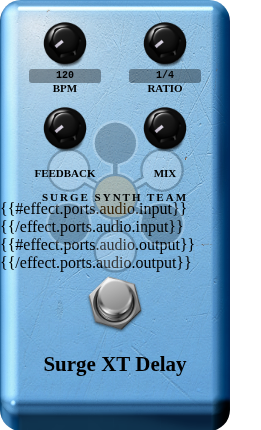
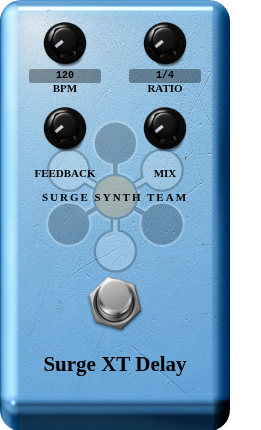
Document MIDI CC/OSC limitation; fix screenshots; add Chorus to all modgui tooling
- All 6 patch-dsp.py: replace understated controls-table note with prominent
  MIDI CC/OSC caveat at the top of every plugin info page; reflow to single
  paragraph (no mid-sentence line breaks). Chorus gains homepage redirect and
  Maintainer credit to match the other five effects.
- README: add section documenting the MIDI CC/OSC unavailability as a
  showstopper for all JUCE-built LV2 plugins; references mod-audio/mod-ui#161
- gen_screenshots.py: strip Mustache block sections before rendering (fixes
  literal-text artifact in all screenshots); add Chorus with space-named deploy
  path; support per-effect deploy_dir override
- Regenerate all 6 screenshots and thumbnails (clean, no artifact; Chorus added)
- descriptions.md, TODO.md: added to repo

Changed region(s): [[0.0, 0.4535, 0.7356, 0.6349]]

diff --git a/tools/gen_screenshots.py b/tools/gen_screenshots.py
@@ -8,6 +8,7 @@ deployed MODEP bundle.
 
 import base64
 import os
+import re
 import shutil
 import subprocess
 import sys
@@ -28,6 +29,8 @@ EFFECTS = [
     {'name': 'reverb1', 'label': 'Surge XT Reverb 1',       'color': 'blue'},
     {'name': 'delay',   'label': 'Surge XT Delay',          'color': 'blue'},
     {'name': 'rotary',  'label': 'Surge XT Rotary Speaker', 'color': 'blue'},
+    {'name': 'chorus',  'label': 'Surge XT Chorus',         'color': 'blue',
+     'deploy_dir': DEPLOY_ROOT / 'Surge XT Chorus.lv2' / 'modgui'},
 ]
 
 
@@ -35,6 +38,11 @@ def b64url(path: Path) -> str:
     mime = 'image/svg+xml' if path.suffix == '.svg' else 'image/png'
     data = base64.b64encode(path.read_bytes()).decode()
     return f'data:{mime};base64,{data}'
+
+
+def strip_mustache_blocks(text: str) -> str:
+    """Remove {{#section}}...{{/section}} blocks — they have no data to render."""
+    return re.sub(r'\{\{#[^}]+\}\}.*?\{\{/[^}]+\}\}', '', text, flags=re.DOTALL)
 
 
 def substitute_mustache(text: str, cns='', ns='', color='blue', label='', knob='lata') -> str:
@@ -67,6 +75,7 @@ def build_html(name: str, label: str, color: str) -> str:
     icon_html = (modgui_dir / 'icon.html').read_text()
     css       = (modgui_dir / 'stylesheet.css').read_text()
 
+    icon_html = strip_mustache_blocks(icon_html)
     icon_html = substitute_mustache(icon_html, color=color, label=label)
     css       = substitute_mustache(css)
 
@@ -89,7 +98,7 @@ html, body {{ margin: 0; padding: 0; width: {SCREENSHOT_W}px; height: {SCREENSHO
 </html>'''
 
 
-def generate(name: str, label: str, color: str):
+def generate(name: str, label: str, color: str, deploy_dir: Path = None):
     print(f'Generating {name}...', flush=True)
 
     html     = build_html(name, label, color)
@@ -127,8 +136,9 @@ def generate(name: str, label: str, color: str):
         thumb.save(thumbnail_tmp)
 
     # Copy to source modgui (writable) and deployed bundle (needs sudo)
-    src_dir    = MODGUI_ROOT / f'surge-xt-{name}' / 'modgui'
-    deploy_dir = DEPLOY_ROOT / f'surge-xt-{name}.lv2' / 'modgui'
+    src_dir = MODGUI_ROOT / f'surge-xt-{name}' / 'modgui'
+    if deploy_dir is None:
+        deploy_dir = DEPLOY_ROOT / f'surge-xt-{name}.lv2' / 'modgui'
 
     shutil.copy(screenshot_tmp, src_dir / 'screenshot.png')
     shutil.copy(thumbnail_tmp,  src_dir / 'thumbnail.png')

diff --git a/modgui/surge-xt-chorus/patch-dsp.py b/modgui/surge-xt-chorus/patch-dsp.py
@@ -27,24 +27,39 @@ text = text.replace(
     '\ta lv2:Plugin , lv2:ChorusPlugin ;\n',
 )
 
-# 2. Description — MODEP reads rdfs:comment, not doap:description.
+# 2. Homepage → this repo (for issue tracking); author name stays "Surge Synth Team"
+text = text.replace(
+    'foaf:homepage <https://surge-synth-team.org/>',
+    'foaf:homepage <https://github.com/bwanab/surge-single-effect-lv2>',
+)
+
+# 3. Description — MODEP reads rdfs:comment, not doap:description.
 #    Insert rdfs:comment before the existing doap:description line.
+NOTE = (
+    '⚠ KNOWN LIMITATION: MIDI CC and OSC parameter binding is not available for this plugin in MODEP. '
+    'This affects all JUCE-built LV2 plugins due to a bug in MODEP\'s handling of patch:writable parameters. '
+    'Parameters are fully adjustable via the plugin GUI and Settings panel, but cannot be mapped to MIDI controllers or expression pedals. '
+    'The Settings panel parameter list will also appear empty for the same reason. '
+    'Upstream issue: https://github.com/mod-audio/mod-ui/issues/161'
+)
 COMMENT = (
+    NOTE + '\n\n'
     'A beautiful sounding chorus pedal much like that ubiquitous blue pedal.\n\n'
-    'Credit: The Surge XT Team'
+    'Features: Modelled by Surge Synth Team (https://surge-synthesizer.github.io/)\n'
+    'Maintainer: Bill Allen\n'
 )
 text = text.replace(
     'doap:description "Surge XT Chorus"',
     f'rdfs:comment """{COMMENT}""" ;\n\tdoap:description "Surge XT Chorus"',
 )
 
-# 3. Rate maximum: 512 Hz -> 1 Hz (fx_parm_0 is the only param with max 512)
+# 4. Rate maximum: 512 Hz -> 1 Hz (fx_parm_0 is the only param with max 512)
 text = text.replace(
     '\tlv2:maximum 512 ;\n',
     '\tlv2:maximum 1 ;\n',
 )
 
-# 4a. Remove _unused_N parameter definition blocks
+# 5a. Remove _unused_N parameter definition blocks
 text = re.sub(
     r'plug:fx_parm_\d+\n\ta lv2:Parameter ;\n\trdfs:label "_unused_\d+" ;'
     r'.*?\tlv2:maximum 1 \.\n\n',
@@ -53,7 +68,7 @@ text = re.sub(
     flags=re.DOTALL,
 )
 
-# 4b. Remove fx_parm_8–11 from patch:writable and patch:readable lists.
+# 5b. Remove fx_parm_8–11 from patch:writable and patch:readable lists.
 #     Both lists end with fx_parm_11 ; — change the last kept entry (fx_parm_7)
 #     from "," to ";" and drop the four trailing entries.
 text = re.sub(

diff --git a/modgui/surge-xt-delay/patch-dsp.py b/modgui/surge-xt-delay/patch-dsp.py
@@ -6,17 +6,19 @@ path = sys.argv[1]
 text = open(path).read()
 
 NOTE = (
-    'Note: This plugin uses LV2 patch:writable parameters (an atom-based protocol). '
-    "MODEP's controls table only shows traditional lv2:ControlPort parameters, "
-    'so it will appear empty — all parameters are accessible through the GUI and Settings panel.'
+    '⚠ KNOWN LIMITATION: MIDI CC and OSC parameter binding is not available for this plugin in MODEP. '
+    'This affects all JUCE-built LV2 plugins due to a bug in MODEP\'s handling of patch:writable parameters. '
+    'Parameters are fully adjustable via the plugin GUI and Settings panel, but cannot be mapped to MIDI controllers or expression pedals. '
+    'The Settings panel parameter list will also appear empty for the same reason. '
+    'Upstream issue: https://github.com/mod-audio/mod-ui/issues/161'
 )
 COMMENT = (
+    NOTE + '\n\n'
     'A nice sounding delay. The GUI exposes BPM and ratio settings from which the delay '
     'duration is computed. These values can be overridden in the Settings panel along with '
     'other parameters.\n\n'
     'Features: Modelled by Surge Synth Team (https://surge-synthesizer.github.io/)\n'
-    'Maintainer: Bill Allen\n\n'
-    + NOTE
+    'Maintainer: Bill Allen\n'
 )
 
 # 1. Category

diff --git a/modgui/surge-xt-rotary/patch-dsp.py b/modgui/surge-xt-rotary/patch-dsp.py
@@ -6,15 +6,17 @@ path = sys.argv[1]
 text = open(path).read()
 
 NOTE = (
-    'Note: This plugin uses LV2 patch:writable parameters (an atom-based protocol). '
-    "MODEP's controls table only shows traditional lv2:ControlPort parameters, "
-    'so it will appear empty — all parameters are accessible through the GUI and Settings panel.'
+    '⚠ KNOWN LIMITATION: MIDI CC and OSC parameter binding is not available for this plugin in MODEP. '
+    'This affects all JUCE-built LV2 plugins due to a bug in MODEP\'s handling of patch:writable parameters. '
+    'Parameters are fully adjustable via the plugin GUI and Settings panel, but cannot be mapped to MIDI controllers or expression pedals. '
+    'The Settings panel parameter list will also appear empty for the same reason. '
+    'Upstream issue: https://github.com/mod-audio/mod-ui/issues/161'
 )
 COMMENT = (
+    NOTE + '\n\n'
     'A software implementation of the famed cabinets normally used by organs.\n\n'
     'Features: Modelled by Surge Synth Team (https://surge-synthesizer.github.io/)\n'
-    'Maintainer: Bill Allen\n\n'
-    + NOTE
+    'Maintainer: Bill Allen\n'
 )
 
 def set_param(text, name, default=None, minimum=None, maximum=None):

diff --git a/modgui/surge-xt-flanger/patch-dsp.py b/modgui/surge-xt-flanger/patch-dsp.py
@@ -6,15 +6,17 @@ path = sys.argv[1]
 text = open(path).read()
 
 NOTE = (
-    'Note: This plugin uses LV2 patch:writable parameters (an atom-based protocol). '
-    "MODEP's controls table only shows traditional lv2:ControlPort parameters, "
-    'so it will appear empty — all parameters are accessible through the GUI and Settings panel.'
+    '⚠ KNOWN LIMITATION: MIDI CC and OSC parameter binding is not available for this plugin in MODEP. '
+    'This affects all JUCE-built LV2 plugins due to a bug in MODEP\'s handling of patch:writable parameters. '
+    'Parameters are fully adjustable via the plugin GUI and Settings panel, but cannot be mapped to MIDI controllers or expression pedals. '
+    'The Settings panel parameter list will also appear empty for the same reason. '
+    'Upstream issue: https://github.com/mod-audio/mod-ui/issues/161'
 )
 COMMENT = (
+    NOTE + '\n\n'
     'A solid flanger effect.\n\n'
     'Features: Modelled by Surge Synth Team (https://surge-synthesizer.github.io/)\n'
-    'Maintainer: Bill Allen\n\n'
-    + NOTE
+    'Maintainer: Bill Allen\n'
 )
 
 def set_param(text, name, default=None, minimum=None, maximum=None):

diff --git a/modgui/surge-xt-reverb1/patch-dsp.py b/modgui/surge-xt-reverb1/patch-dsp.py
@@ -6,15 +6,17 @@ path = sys.argv[1]
 text = open(path).read()
 
 NOTE = (
-    'Note: This plugin uses LV2 patch:writable parameters (an atom-based protocol). '
-    "MODEP's controls table only shows traditional lv2:ControlPort parameters, "
-    'so it will appear empty — all parameters are accessible through the GUI and Settings panel.'
+    '⚠ KNOWN LIMITATION: MIDI CC and OSC parameter binding is not available for this plugin in MODEP. '
+    'This affects all JUCE-built LV2 plugins due to a bug in MODEP\'s handling of patch:writable parameters. '
+    'Parameters are fully adjustable via the plugin GUI and Settings panel, but cannot be mapped to MIDI controllers or expression pedals. '
+    'The Settings panel parameter list will also appear empty for the same reason. '
+    'Upstream issue: https://github.com/mod-audio/mod-ui/issues/161'
 )
 COMMENT = (
+    NOTE + '\n\n'
     'A shimmer style reverb.\n\n'
     'Features: Modelled by Surge Synth Team (https://surge-synthesizer.github.io/)\n'
-    'Maintainer: Bill Allen\n\n'
-    + NOTE
+    'Maintainer: Bill Allen\n'
 )
 
 def set_param(text, name, default=None, minimum=None, maximum=None):

diff --git a/modgui/surge-xt-phaser/patch-dsp.py b/modgui/surge-xt-phaser/patch-dsp.py
@@ -6,15 +6,17 @@ path = sys.argv[1]
 text = open(path).read()
 
 NOTE = (
-    'Note: This plugin uses LV2 patch:writable parameters (an atom-based protocol). '
-    "MODEP's controls table only shows traditional lv2:ControlPort parameters, "
-    'so it will appear empty — all parameters are accessible through the GUI and Settings panel.'
+    '⚠ KNOWN LIMITATION: MIDI CC and OSC parameter binding is not available for this plugin in MODEP. '
+    'This affects all JUCE-built LV2 plugins due to a bug in MODEP\'s handling of patch:writable parameters. '
+    'Parameters are fully adjustable via the plugin GUI and Settings panel, but cannot be mapped to MIDI controllers or expression pedals. '
+    'The Settings panel parameter list will also appear empty for the same reason. '
+    'Upstream issue: https://github.com/mod-audio/mod-ui/issues/161'
 )
 COMMENT = (
+    NOTE + '\n\n'
     'A solid phaser effect.\n\n'
     'Features: Modelled by Surge Synth Team (https://surge-synthesizer.github.io/)\n'
-    'Maintainer: Bill Allen\n\n'
-    + NOTE
+    'Maintainer: Bill Allen\n'
 )
 
 def set_param(text, name, default=None, minimum=None, maximum=None):

diff --git a/README.md b/README.md
@@ -275,3 +275,37 @@ Because `mod-parameter-uri` requires the full URI (not just a short symbol),
 and the Mustache `{{#controls}}` loop only exposes `{{symbol}}`, **knobs must
 be written out individually** in each effect's `icon.html` rather than using
 the generic loop. See `docs/modgui-skin-howto.md` for the complete template.
+
+### MIDI CC / OSC binding is unavailable for patch:writable plugins — a showstopper
+
+The same root cause produces a second, more serious limitation: **no parameter
+on any `patch:writable` plugin can be mapped to MIDI CC or OSC in MODEP.**
+
+For a traditional `lv2:ControlPort` plugin, each parameter in the MODEP
+settings panel shows a small mixer icon in the lower-right corner. Clicking it
+opens the MIDI CC / OSC assignment menu — the standard way to control effect
+parameters live via expression pedals, foot controllers, or DAW automation.
+
+For any `patch:writable` plugin — which includes **every plugin built with
+JUCE's LV2 backend** — that icon is absent on every parameter. The parameters
+appear in the settings panel but are entirely unassignable.
+
+The reason is the same `effect.ports.control.input` emptiness described above.
+MODEP's MIDI/OSC binding UI populates its controls from that list, and for
+`patch:writable` plugins the list contains only `enabled` and `freeWheeling`
+(both marked `pprop:notOnGUI`), so it is effectively empty.
+
+The modgui `input-parameter` workaround (described above) fixes knob
+interaction in the icon, but **there is no equivalent workaround for MIDI/OSC
+binding** — that is server-side behaviour that modgui cannot influence.
+
+This affects all JUCE-based LV2 plugins without exception, because JUCE's LV2
+exporter offers no option to emit `lv2:ControlPort` ports instead. The Surge XT
+effects in this repo, and any other JUCE-built LV2 plugin deployed to MODEP,
+share this limitation until it is addressed upstream in mod-ui.
+
+The issue is tracked at
+[mod-audio/mod-ui#161](https://github.com/mod-audio/mod-ui/issues/161).
+A fix at the `effect.ports.control.input` population layer — falling back to
+`effect.parameters` for `patch:writable` plugins — would resolve both the
+knob-binding and MIDI/OSC symptoms in one change.

diff --git a/descriptions.md b/descriptions.md
@@ -1,0 +1,64 @@
+For all the effects:
+
+Author: Bill Allen
+Homepage: https://github.com/bwanab/surge-single-effect-lv2
+Features: Modelled by Surge Synth Team (https://surge-synthesizer.github.io/)
+
+--- CAVEAT (include prominently at the top of every patchstorage description) ---
+
+⚠ KNOWN LIMITATION: MIDI CC and OSC parameter binding is not available for these plugins
+in MODEP. This is a bug in MODEP's handling of JUCE-built LV2 plugins — all parameters
+use the patch:writable protocol rather than traditional lv2:ControlPort ports, and MODEP's
+MIDI/OSC binding UI only works with the latter. Parameters are fully adjustable via the
+plugin GUI and Settings panel, but cannot be mapped to MIDI controllers or expression
+pedals in real time. The Settings panel parameter list will also appear empty.
+
+This is a known upstream issue being tracked at:
+https://github.com/mod-audio/mod-ui/issues/161
+
+---------------------------------------------------------------------------------
+
+
+1) Reverb1 -
+Overrides:
+	Decay: max: 20000, min: 500, default: 5000
+
+
+Description:
+	A shimmer style reverb.
+
+2) Rotary - 
+Overrides:
+	Horn: max: 10, min is ok, default: 2
+
+
+Descriptions:
+	An software implementation of the famed cabinets normally used by organs.
+
+3) Delay
+Overrides:
+
+
+
+Descriptions:
+	A nice sounding delay. The GUI exposes bpm and ratio settings from which the delay duration is computed.
+	These values can be overridden in the settings along with other settings.
+
+4) Flanger
+Overrides:
+	Rate: min: 0.01, max: 2, default: 0.5
+
+
+Descriptions:
+	A solid flanger effect.
+
+5) Phaser
+Overrides:
+	Depth: default: 50%
+	Rate: min: 0.01, max: 10, default: 2
+
+
+
+Descriptions:
+	A solid phaser effect.
+

diff --git a/TODO.md b/TODO.md
@@ -1,0 +1,3 @@
+1. The newly created screenshots and thumbnails for the pedals have a text artifact that shouldn't be there. E.G. /var/modep/lv2/surge-xt-delay.lv2/modgui/screenshot.png.
+2. The screenshot and thumbnail need to be added for Surge XT Chorus.lv2.
+3. On the settings page for all the surge-xt effects, the various parameters are available like for other effects, but for all other effects, each of the parameter settings have a symbol that looks like a symbolic mixer on the lower right that when clicked brings up a menu that allows for associating the parameter with a midi CC or OSC. The surge-xt effects do not have these. I hope this isn't a manifestation of the ControlPort vs. patch:writeable issue from the README.
